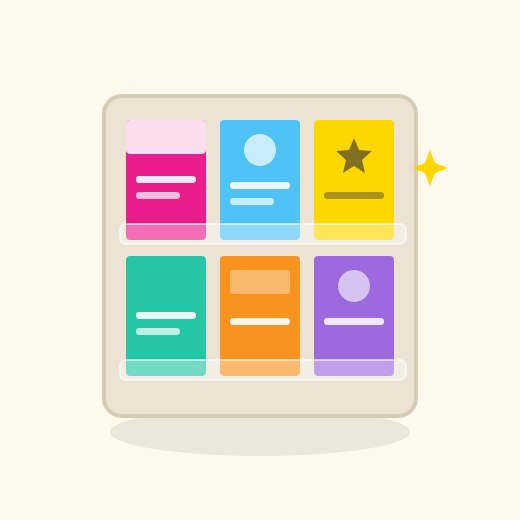
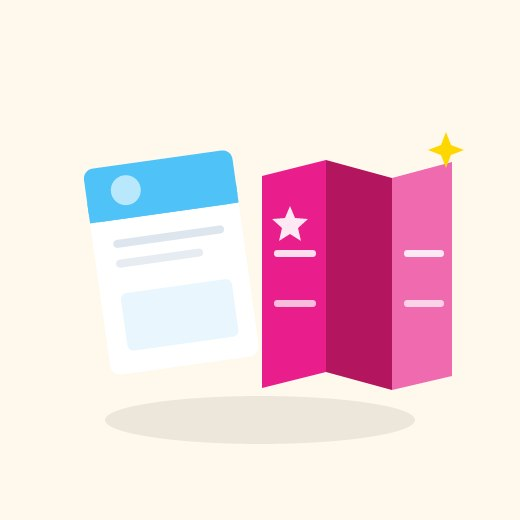
Rework use-case tiles 2 and 4: brochures+flyers, and a magazine
Tile 2 drops the rack and shows a flyer + tri-fold brochure (caption Brochures & flyers). Tile 4 becomes an open magazine with an event poster inside (caption Magazines). Update the intro line to match.

diff --git a/usage.html b/usage.html
@@ -174,8 +174,8 @@
     <div class="wrap">
       <h2><span class="de">Wofür ist es?</span><span class="en">What is it for?</span></h2>
       <p class="lead">
-        <span class="de">Veranstaltungshinweise begegnen dir überall — auf Litfaßsäulen, in Prospektständern, auf Flyern und in Magazinen. Fotonotix macht aus jedem dieser Aushänge in Sekunden einen Kalendereintrag.</span>
-        <span class="en">Event announcements are everywhere — on advertising columns, in brochure racks, on flyers and in magazines. Fotonotix turns any of them into a calendar entry in seconds.</span>
+        <span class="de">Veranstaltungshinweise begegnen dir überall — auf Litfaßsäulen, auf Flyern und Prospekten, an Wänden und in Magazinen. Fotonotix macht aus jedem dieser Aushänge in Sekunden einen Kalendereintrag.</span>
+        <span class="en">Event announcements are everywhere — on advertising columns, on flyers and brochures, on walls and in magazines. Fotonotix turns any of them into a calendar entry in seconds.</span>
       </p>
       <div class="uses">
         <div class="use"><figure>
@@ -184,7 +184,7 @@
         </figure></div>
         <div class="use"><figure>
           <img src="images/guide_use2.jpg" alt="">
-          <figcaption><span class="de">Prospekt- &amp; Flyerständer</span><span class="en">Brochure &amp; flyer racks</span></figcaption>
+          <figcaption><span class="de">Prospekte &amp; Flyer</span><span class="en">Brochures &amp; flyers</span></figcaption>
         </figure></div>
         <div class="use"><figure>
           <img src="images/guide_use3.jpg" alt="">
@@ -192,7 +192,7 @@
         </figure></div>
         <div class="use"><figure>
           <img src="images/guide_use4.jpg" alt="">
-          <figcaption><span class="de">Flyer, Broschüren &amp; Magazine</span><span class="en">Flyers, brochures &amp; magazines</span></figcaption>
+          <figcaption><span class="de">Magazine</span><span class="en">Magazines</span></figcaption>
         </figure></div>
       </div>
     </div>
